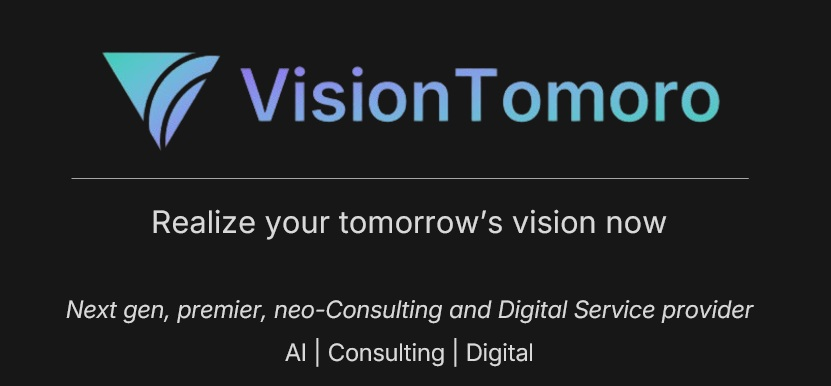
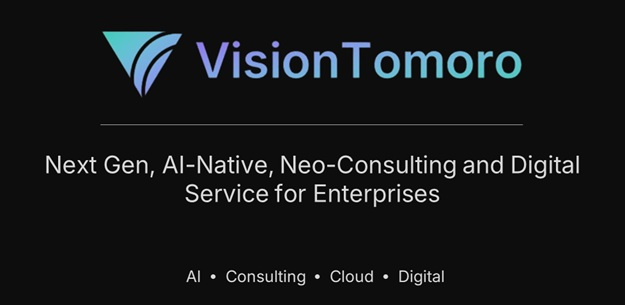
index.html page updated based on suggestions by Gemini 6

diff --git a/index.html b/index.html
@@ -5,19 +5,19 @@
   <meta charset="UTF-8">
   <meta name="viewport" content="width=device-width, initial-scale=1.0">
   <meta name="description"
-    content="VisionTomoro — AI, Consulting and Digital services delivering Agentic AI, Gen AI, cloud, data, DevOps and digital transformation solutions to help enterprises modernize and accelerate outcomes.">
+    content="VisionTomoro — AI, Neo-Consulting and Digital services delivering Agentic AI, Gen AI, cloud, data, DevOps and digital transformation solutions to help enterprises modernize and accelerate outcomes.">
   <meta name="keywords"
     content="AI, cloud, consulting, data, technology, IT services, GCC as a Service, DevOps, Gen AI, generative AI, Agentic AI">
   <meta name="robots" content="index, follow">
   <!-- Open Graph / social preview -->
   <meta property="og:title"
-    content="VisionTomoro | Realize your tomorrow’s vision now | AI, Consulting and Digital Services">
+    content="VisionTomoro | Next Gen, AI-Native, Neo-Consulting and Digital Service for Enterprises">
   <meta property="og:description"
     content="AI, Consulting and Digital services focused on Agentic AI, generative AI, cloud migration, data & analytics and modern engineering practices.">
   <meta property="og:image" content="images/VisionTomoro-removebg-preview.png">
   <meta property="og:type" content="website">
   <meta name="twitter:card" content="summary_large_image">
-  <meta name="twitter:title" content="VisionTomoro | Realize your tomorrow’s vision now">
+  <meta name="twitter:title" content="VisionTomoro | Next Gen, AI-Native, Neo-Consulting and Digital Service for Enterprises">
   <meta name="twitter:description"
     content="Agentic AI, Gen AI, Cloud, Data & Analytics and Consulting services to accelerate transformation.">
   <link rel="canonical" href="/index.html">
@@ -31,7 +31,7 @@
     "sameAs": []
   }
   </script>
-  <title>VisionTomoro | Realize your tomorrow’s vision now | AI, Consulting and Digital Services</title>
+  <title>VisionTomoro | Next Gen, AI-Native, Neo-Consulting and Digital Service for Enterprises | AI, Consulting, Cloud and Digital Services</title>
   <link rel="icon" type="image/x-icon" href="favicon.ico">
   <link rel="preconnect" href="https://fonts.googleapis.com">
   <link rel="preconnect" href="https://fonts.gstatic.com" crossorigin>
@@ -193,7 +193,7 @@
   <!-- Services Overview -->
   <section class="services" id="services">
     <div class="container">
-      <h2 class="section-title teal-title">Our expertise</h2>
+      <h2 class="section-title teal-title">Our expertise for the AI era</h2>
       <p style="margin-bottom: 3rem;">With expertise in AI, Cloud, Digital and Consulting, we deliver customised
         solutions for your business, that help you realize your tomorrow's vision now.</p>
       <div class="services-grid">
@@ -202,15 +202,13 @@
             <div class="service-card-front">
               <div class="service-card-image" style="background-image: url('images/AI.jpg');"></div>
               <div class="service-card-info">
-                <h3>Generative AI</h3>
-                <p>Gen AI and Agentic AI are transforming indusries.
-                  We have experience across AI stack including intelligent apps, models, fine tuning, frameworks, AI
-                  platforms and AI infrastructure.
-                </p>
+                <h3>Agentic AI</h3>
+                <p>Go beyound the chatbots. Build agentic AI systems that can think, plan, reason, act and execute.
+                We cover the full stack: from custom LLM fine-tuning to agentic apps & autonomous apps to AgentOps.</p>
               </div>
             </div>
             <div class="service-card-back">
-              <h3>AI & Gen AI</h3>
+              <h3>Agentic AI</h3>
               <ul>
                 <li>AI Strategy & Implementation</li>
                 <li>Machine Learning & Data Science</li>
@@ -229,7 +227,7 @@
               <div class="service-card-image" style="background-image: url('images/data.jpg');"></div>
               <div class="service-card-info">
                 <h3>Data & Analytics</h3>
-                <p>Data is your biggest differentiator. Prepare your data for AI. Transform your data into actionable
+                <p>Prepare your data for AI - build AI-ready data architecture. Transform your data into actionable
                   insights. Secure and govern your data. Ensure data quality and lineage.</p>
               </div>
             </div>
@@ -252,13 +250,12 @@
             <div class="service-card-front">
               <div class="service-card-image" style="background-image: url('images/cloud.jpg');"></div>
               <div class="service-card-info">
-                <h3>Cloud</h3>
-                <p>Migrate and modernize to cloud. Automate your apps and infra. Reduce your cost by adopting FinOps.
-                  Utilize private cloud and sovereign cloud. Manage your multi & hybrid cloud environment. </p>
+                <h3>Cloud for AI era</h3>
+                <p>We don't just "lift and shift." We re-architect for the cloud-native era. We use FinOps to keep the cost in check. Our "smart cloud" apprach uses public, private, sovereign and edge cloud. We ensure your infrastructure is AI-ready and scalable.</p>
               </div>
             </div>
             <div class="service-card-back">
-              <h3>Cloud</h3>
+              <h3>Cloud for AI era</h3>
               <ul>
                 <li>Cloud Strategy & Assessment</li>
                 <li>Migration & Modernization</li>
@@ -307,7 +304,7 @@
         <div class="bento-card bento-wide">
           <h3>Neo Consulting</h3>
           <p>The end of the slide-deck era. We don't just advise; we design systems, we ship code. 
-            Our neo consultants have deep consulting, engineering and functional expeirence
+            Our neo consultants have deep consulting, engineering and functional experience
           </p>
         </div>
         <div class="bento-card">
